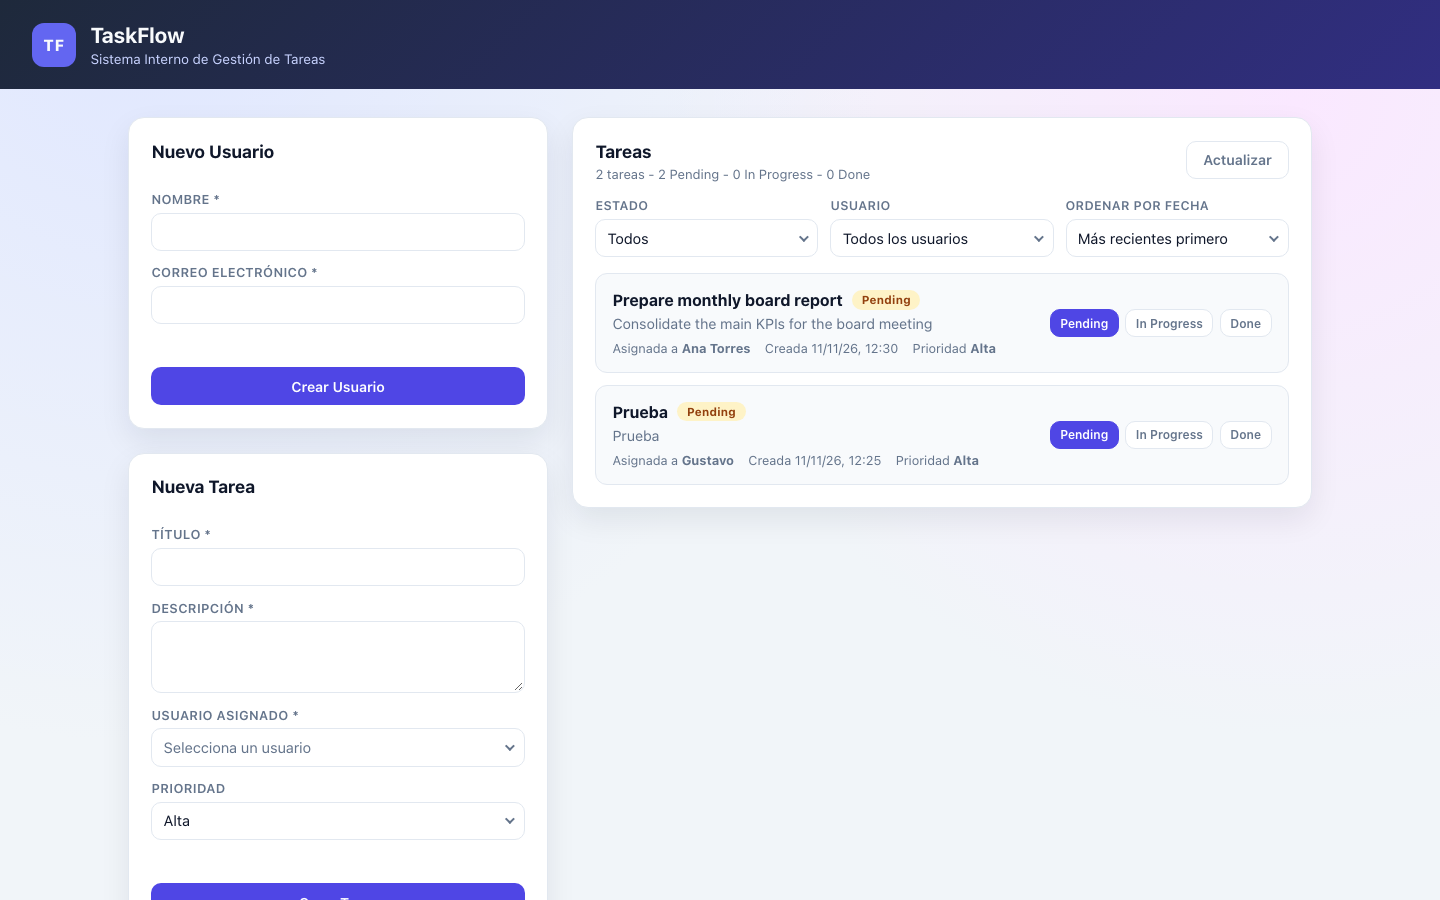
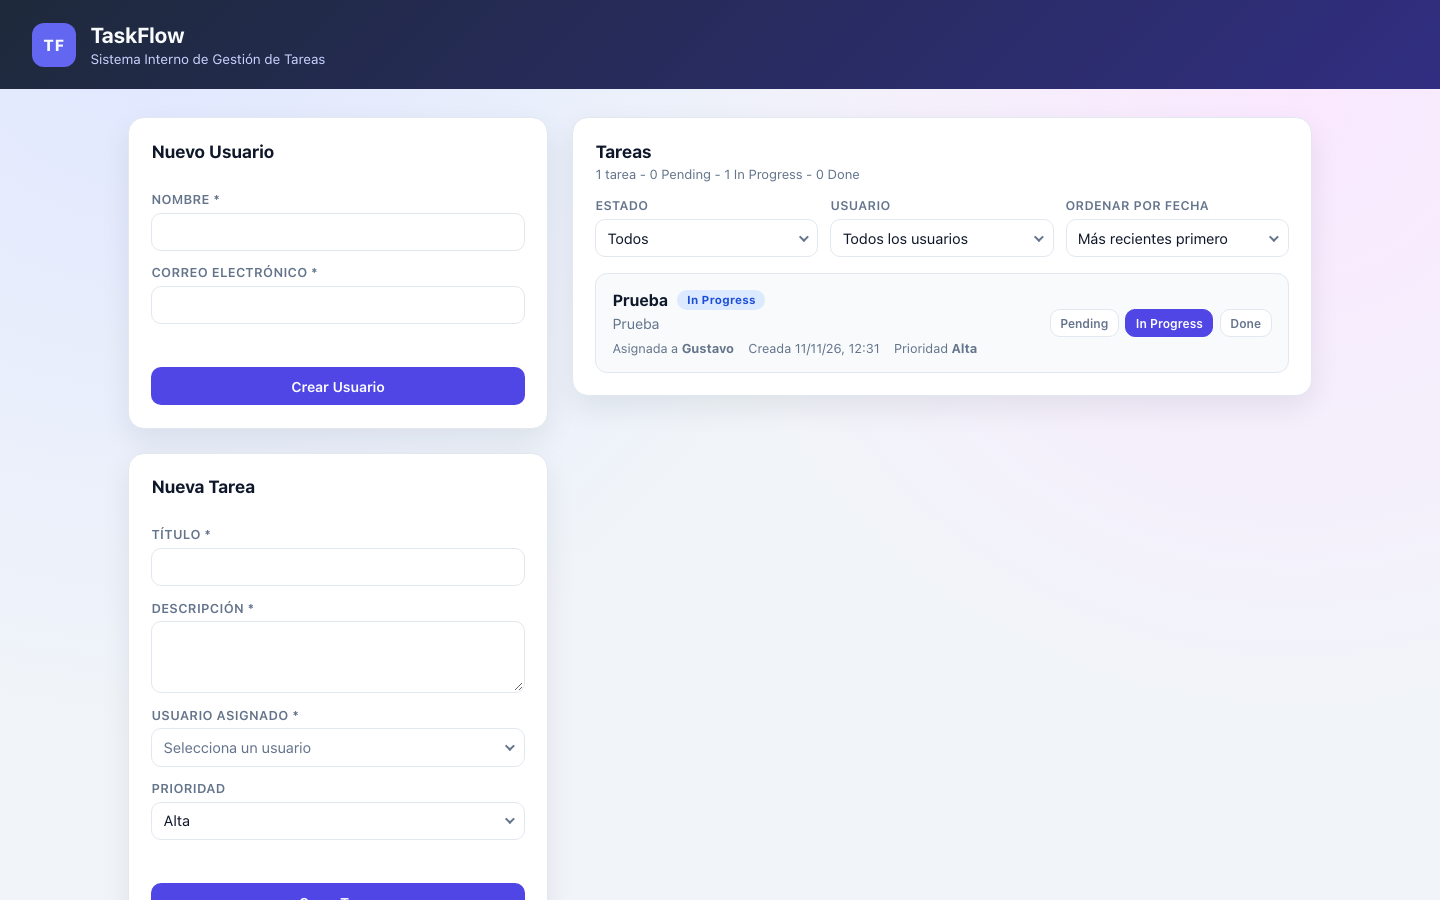
feat: remove redundant refresh button from task list

diff --git a/frontend/src/app/features/tasks/task-list/task-list.component.html b/frontend/src/app/features/tasks/task-list/task-list.component.html
@@ -10,9 +10,6 @@
         {{ counts().done }} Done
       </p>
     </div>
-    <button type="button" class="btn ghost" (click)="loadTasks()" [disabled]="loading()">
-      {{ loading() ? 'Cargando...' : 'Actualizar' }}
-    </button>
   </header>
 
   <div class="filters">
